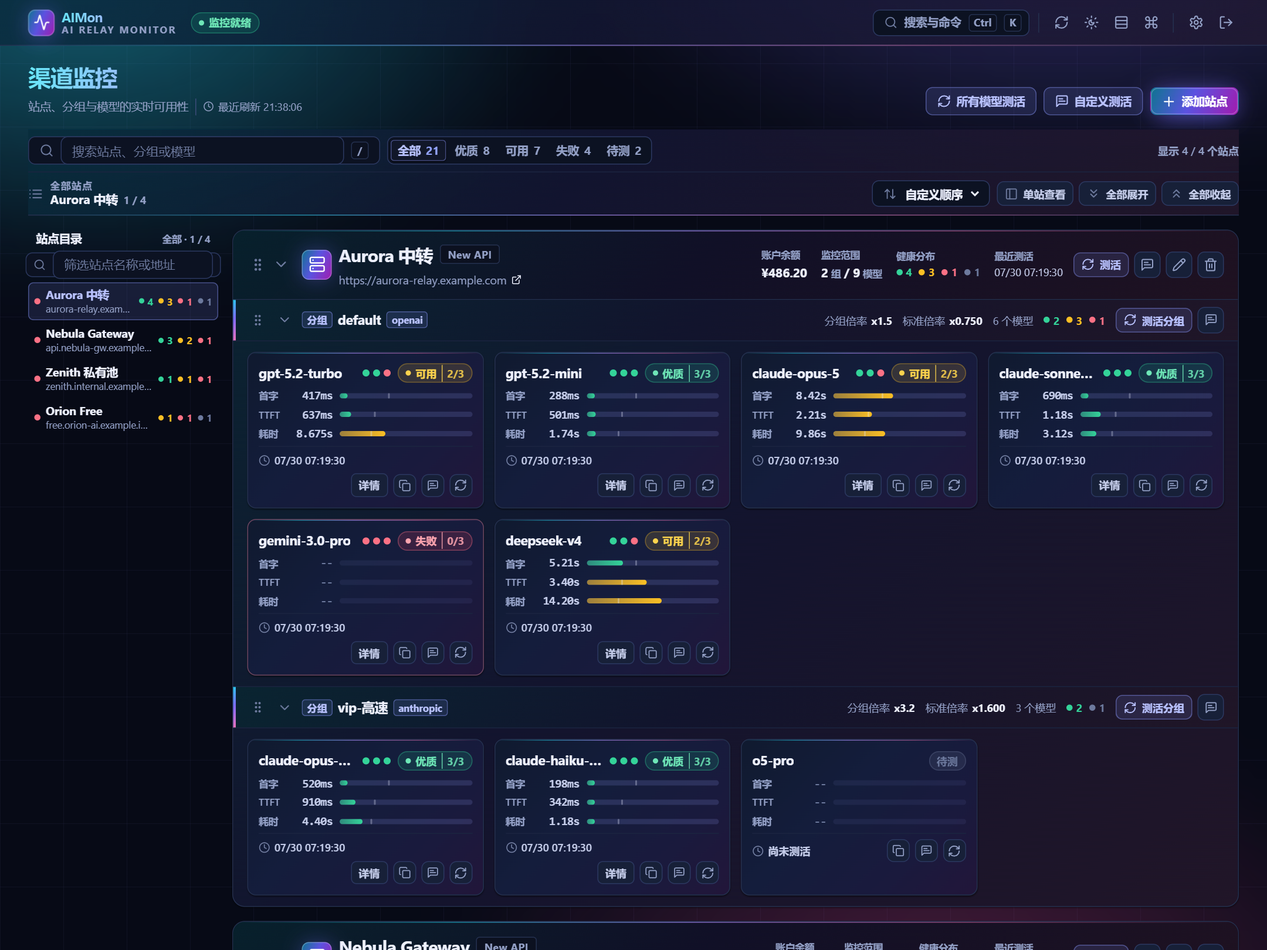
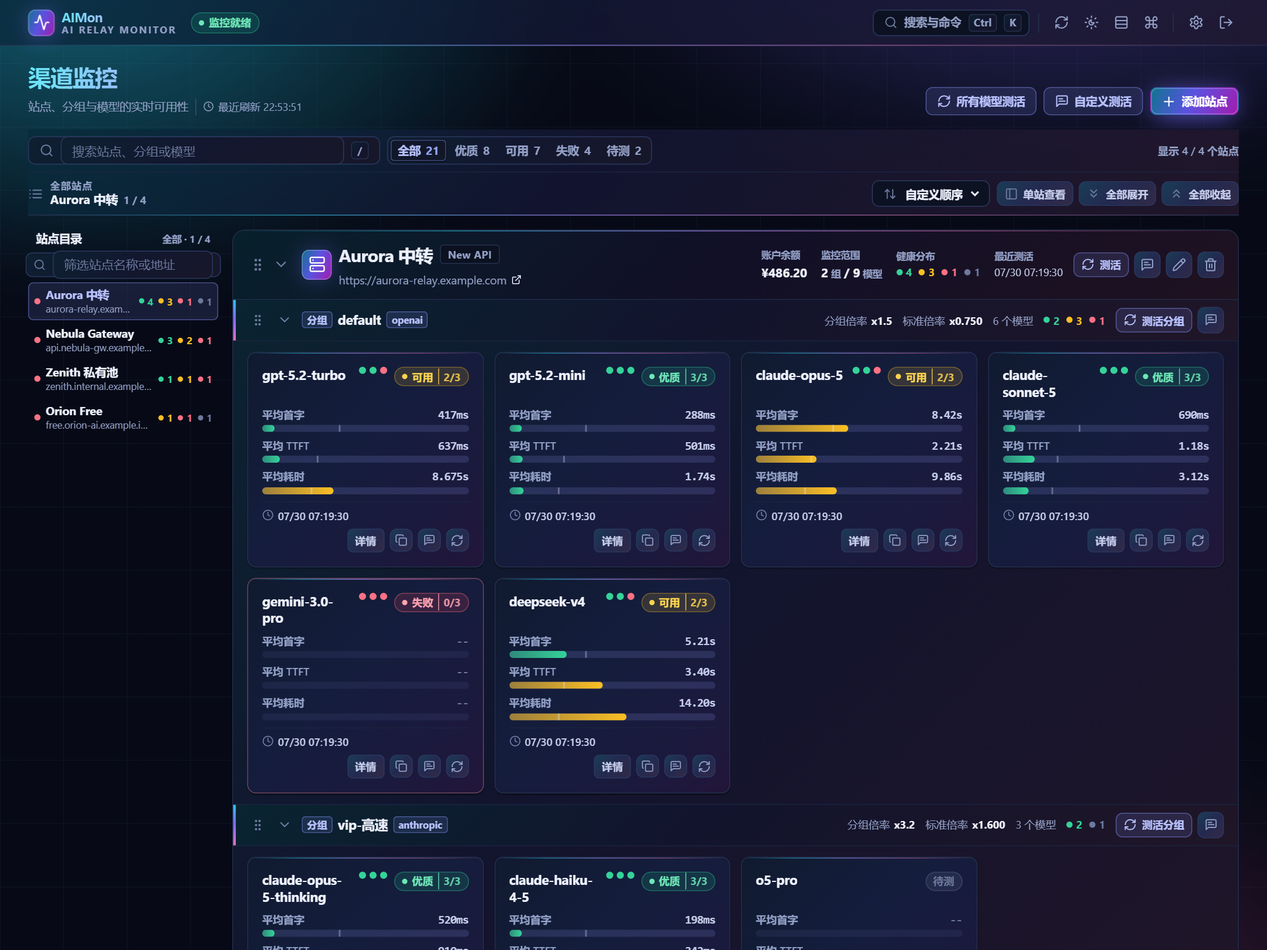
feat(ui): square the card up, and take the grey out of the controls
The model card was still a banner: three readings squeezed into a label /
value / gauge row each, so a 264px column landed near 1.5:1. Raising
--model-card-min cannot fix that — auto-fill drops a column and the cards
get *wider* — so the height is bought honestly instead. Each reading is now
two lines: label and value on one, the gauge across the full inner width
below. With a 16px inset, 8px row gaps and 8px gauges the card lands at
269x245 (1.1:1) at 1440 and 229x231 at 1280 compact, four columns in both.
Full metric labels come back now that each one owns its line, and the model
name may take two lines before truncating — at 228px `claude-opus-5` and
`claude-sonnet-5` were both `claude-o…`. The name's two lines are reserved
whether used or not, so every card in a row starts its readings level.

Ordinary controls were the last flat grey on the page. Rather than
recolouring them one by one, the neutral tier itself is washed with the one
declared spectrum: --grad-control on buttons, icon buttons and the card's
详情 link (deepening on hover), --grad-field one step fainter on inputs,
selects, the segmented tray, the search box and kbd, --grad-veil on toasts.
Brand-tinted, ghost, danger and primary variants stay flat as before.

diff --git a/src/styles/panels.css b/src/styles/panels.css
@@ -233,7 +233,7 @@
   position: relative;
   display: flex;
   flex-direction: column;
-  gap: var(--space-2);
+  gap: var(--space-3);
   padding: var(--card-pad);
   border-radius: var(--radius-lg);
   border: 1px solid var(--border);
@@ -293,15 +293,26 @@
    old card stacked six separate blocks — a header, a success band and three full-width
    latency rows with their labels above them. Name, dots and badge share the first line; the
    dots wrap rather than push the badge off the end. */
-.model-card-header { display: flex; align-items: center; gap: var(--space-2) var(--space-3); }
-.model-card-title { display: flex; align-items: center; gap: var(--space-2); min-width: 0; flex: 1; }
+.model-card-header { display: flex; align-items: flex-start; gap: var(--space-2) var(--space-3); }
+.model-card-title { display: flex; align-items: flex-start; gap: var(--space-2); min-width: 0; flex: 1; }
+/* The name may take two lines. A 228px card truncated `claude-opus-5` and `claude-sonnet-4.6`
+   to the same `claude-o…`, i.e. two cards in one row that no longer identified themselves —
+   and a monitoring tool where you cannot tell which model you are reading is broken. Two lines
+   is the cap: past that the card would grow around one long name. */
 .model-card-title h4 {
+  display: -webkit-box;
+  -webkit-line-clamp: 2;
+  -webkit-box-orient: vertical;
   font-size: var(--text-md);
   font-weight: 650;
+  line-height: 1.3;
+  /* Two lines are reserved whether or not this name needs them, so every card in a row starts
+     its readings at the same height — one wrapped name used to push its neighbour's three
+     gauges out of line with the rest of the row. */
+  min-height: 2.6em;
   letter-spacing: -0.01em;
   overflow: hidden;
-  text-overflow: ellipsis;
-  white-space: nowrap;
+  overflow-wrap: anywhere;
 }
 .model-rank {
   display: grid;
@@ -333,25 +344,28 @@
 .attempt-dots > i { width: 8px; height: 8px; border-radius: 50%; background: var(--bad); }
 .attempt-dots > i.ok { background: var(--good); }
 
-/* Three rows, one reading each: short label, value, gauge, all on one line. Side by side as
-   three columns the readings turned the card into a wide strip — a 324px card 136px tall,
-   nearly 2.4:1 — and each gauge was down to a third of the card's width, which is not enough
-   length for a bar to say anything. Stacked, the card reads as a tile (~1.5:1) and each bar
-   gets the full inner width. */
+/* Three rows, one reading each, and each reading is two lines: name and value on top, the
+   gauge across the full inner width below. Side by side as three columns the readings turned
+   the card into a wide strip — a 324px card 136px tall, nearly 2.4:1 — and squeezing the
+   gauge into a third column left it a third of the card wide, which is not enough length for
+   a bar to say anything. Giving the bar its own line is also what buys the card its height:
+   at a 264px column it lands near 1.2:1, i.e. a tile rather than a banner. */
 .model-metrics {
   display: flex;
   flex-direction: column;
-  gap: var(--space-2);
+  gap: var(--space-3);
 }
 .metric-stat {
   display: grid;
-  grid-template-columns: 30px minmax(46px, auto) minmax(36px, 1fr);
-  align-items: center;
-  gap: var(--space-3);
+  grid-template-columns: minmax(0, 1fr) auto;
+  align-items: baseline;
+  gap: 3px var(--space-3);
   min-width: 0;
 }
-.metric-stat .metric-label { font-size: var(--text-2xs); line-height: 1.2; }
-.metric-stat .metric-value { line-height: 1.2; text-align: right; }
+.metric-stat .metric-label { font-size: var(--text-xs); line-height: 1.25; }
+.metric-stat .metric-value { line-height: 1.25; text-align: right; }
+/* The gauge spans both columns: full inner width is the whole point of the second line. */
+.metric-stat .metric-gauge { grid-column: 1 / -1; }
 /* Latency numbers stay ink: the bar beside each one already carries its colour, and three
    tinted numbers beside a tinted verdict made every healthy card as loud as a broken one.
    Red is the exception — that one is worth reading before the bar. */
@@ -397,20 +411,21 @@
   padding: 3px var(--space-3);
   border-radius: var(--radius-sm);
   border: 1px solid var(--control-border);
-  background: var(--control-face);
+  background-color: var(--control-face);
+  background-image: var(--grad-control);
   color: var(--text-soft);
   font-size: var(--text-xs);
   font-weight: 600;
   white-space: nowrap;
 }
-.attempt-link:hover { border-color: var(--control-border-hover); color: var(--text); }
+.attempt-link:hover { border-color: var(--control-border-hover); background-image: var(--grad-control-hover); color: var(--text); }
 /* No red face here. A single failed request inside an otherwise available round used to
    paint this chip red, which made the quietest control on the card the loudest thing on
    it — louder than the badge that says 可用. The failure is already in the dots, the
    badge's tally and, when the round failed outright, the card's own edge. */
 /* A live round wears the brand tint, the same language every other "in progress" state
    on the page uses, so the count reads as counting up rather than as a final tally. */
-.attempt-link.is-live { border-color: var(--brand-border); background: var(--brand-soft); color: var(--accent-ink); }
+.attempt-link.is-live { border-color: var(--brand-border); background-color: var(--brand-soft); background-image: none; color: var(--accent-ink); }
 
 @media (max-width: 1100px) {
   .site-panel-header { grid-template-columns: auto minmax(0, 1fr) auto; row-gap: var(--space-3); }

diff --git a/src/styles/components.css b/src/styles/components.css
@@ -1,9 +1,10 @@
-/* Buttons. Three faces, and colour is what separates them: a cool tinted neutral for
-   ordinary actions, a brand-tinted face for 测活 (the action this tool exists for), and a
-   solid brand-blue slab for the one committing action in view. An all-grey set of controls
-   on a grey-white page had nothing but luminance to tell the tiers apart, which read as
-   unfinished rather than as restrained. Tight 8px corner, hairline border, no gloss and no
-   hover lift. */
+/* Buttons. Three faces, and colour is what separates them: a washed neutral for ordinary
+   actions, a brand-tinted face for 测活 (the action this tool exists for), and a solid brand
+   gradient slab for the one committing action in view. An all-grey set of controls on a
+   grey-white page had nothing but luminance to tell the tiers apart, which read as
+   unfinished rather than as restrained — so even the neutral tier carries a wash of the one
+   spectrum, deepening on hover. Tight 8px corner, hairline border, no gloss and no hover
+   lift. */
 .button {
   display: inline-flex;
   align-items: center;
@@ -13,7 +14,8 @@
   padding: 0 var(--space-4);
   border-radius: var(--radius-md);
   border: 1px solid var(--control-border);
-  background: var(--control-face);
+  background-color: var(--control-face);
+  background-image: var(--grad-control);
   color: var(--text-soft);
   font-size: var(--text-sm);
   font-weight: 600;
@@ -23,12 +25,13 @@
 }
 .button > svg { flex: none; color: var(--text-faint); }
 .button:hover:not(:disabled) {
-  background: var(--control-face-hover);
+  background-color: var(--control-face-hover);
+  background-image: var(--grad-control-hover);
   border-color: var(--control-border-hover);
   color: var(--text);
 }
 .button:hover:not(:disabled) > svg { color: var(--text-soft); }
-.button:active:not(:disabled) { background: var(--control-face-active); }
+.button:active:not(:disabled) { background-color: var(--control-face-active); }
 .button:disabled { opacity: 0.45; }
 
 /* The one gradient slab on the page, and the only control allowed to glow: a filled surface
@@ -103,7 +106,8 @@
 .button.compact { min-height: 28px; padding: 0 var(--space-3); font-size: var(--text-xs); }
 .button.block { width: 100%; }
 /* Icon-only buttons need a resting face too, otherwise the only thing marking them
-   as controls is a hover state the user has to find first. */
+   as controls is a hover state the user has to find first. Same washed neutral as the
+   text buttons — a strip of six grey squares in the header was the last flat grey left. */
 .icon-button {
   display: inline-flex;
   align-items: center;
@@ -113,13 +117,15 @@
   flex: none;
   border-radius: var(--radius-md);
   border: 1px solid var(--control-border);
-  background: var(--control-face);
+  background-color: var(--control-face);
+  background-image: var(--grad-control);
   color: var(--text-muted);
   transition: background var(--dur-fast) var(--ease), color var(--dur-fast) var(--ease),
     border-color var(--dur-fast) var(--ease);
 }
 .icon-button:hover:not(:disabled) {
-  background: var(--accent-face);
+  background-color: var(--accent-face);
+  background-image: none;
   border-color: var(--accent-border);
   color: var(--accent-ink);
 }
@@ -155,7 +161,8 @@
   padding: 3px;
   border-radius: var(--radius-md);
   border: 1px solid var(--control-border);
-  background: var(--field-face);
+  background-color: var(--field-face);
+  background-image: var(--grad-field);
 }
 .segmented > button {
   display: inline-flex;
@@ -303,7 +310,8 @@ textarea {
   padding: 0 var(--space-4);
   border-radius: var(--radius-md);
   border: 1px solid var(--control-border);
-  background: var(--field-face);
+  background-color: var(--field-face);
+  background-image: var(--grad-field);
   color: var(--text);
   font-size: var(--text-base);
   transition: border-color var(--dur-fast) var(--ease), box-shadow var(--dur-fast) var(--ease),
@@ -371,7 +379,8 @@ input[type='checkbox'], input[type='radio'] {
   padding: 0 var(--space-4);
   border-radius: var(--radius-md);
   border: 1px solid var(--control-border);
-  background: var(--field-face);
+  background-color: var(--field-face);
+  background-image: var(--grad-field);
   color: var(--text-muted);
   transition: border-color var(--dur-fast) var(--ease), box-shadow var(--dur-fast) var(--ease),
     background var(--dur-fast) var(--ease);
@@ -421,7 +430,8 @@ kbd {
   padding: 0 5px;
   border-radius: var(--radius-xs);
   border: 1px solid var(--border);
-  background: var(--surface-sunken);
+  background-color: var(--surface-sunken);
+  background-image: var(--grad-field);
   color: var(--text-muted);
   font-family: var(--font-sans);
   font-size: var(--text-xs);
@@ -516,7 +526,8 @@ kbd {
   border-radius: var(--radius-md);
   border: 1px solid var(--border);
   border-left: 3px solid var(--border-strong);
-  background: var(--surface-raised);
+  background-color: var(--surface-raised);
+  background-image: var(--grad-veil);
   box-shadow: var(--shadow-3);
   pointer-events: auto;
   animation: aimon-pop var(--dur) var(--ease-out);

diff --git a/src/styles/tokens.css b/src/styles/tokens.css
@@ -56,25 +56,27 @@
   /* Density-driven layout rhythm. --panel-pad is the vertical rhythm of a site's title
      band; the panel's own gutters are one step up from it (--space-5). */
   --panel-pad: var(--space-4);
-  /* The card holds four short rows; a 16px inset around them made a 227px-tall card out of
-     ~150px of content. The inset is now one step under the gap between cards. */
-  --card-pad: var(--space-4);
+  /* The card is the object this page is about, so it is the one surface that gets a
+     comfortable inset rather than the tightest one that still works. */
+  --card-pad: var(--space-5);
   --section-gap: var(--space-5);
-  /* The card is meant to read as a near-square tile: with the three readings stacked as
-     rows instead of columns it is ~160px tall, so a 248px column lands around 1.55:1. The
-     footer may wrap at the tightest widths — that is what `flex-wrap` on it is for, because
-     the one thing a monitoring card must never clip is the timestamp. */
-  --model-card-min: 248px;
+  /* The card is meant to read as a near-square tile. Each reading is two lines now — label
+     and value above a full-width gauge — which is what buys the height: at a 264px column
+     the card lands around 1.2:1 instead of the 1.5:1 it had when the gauges were squeezed
+     into a third column. The footer may wrap at the tightest widths — that is what
+     `flex-wrap` on it is for, because the one thing a monitoring card must never clip is
+     the timestamp. */
+  --model-card-min: 264px;
   --row-height: 34px;
-  --metric-bar: 6px;
+  --metric-bar: 8px;
 }
 [data-density='compact'] {
   --panel-pad: var(--space-3);
-  --card-pad: var(--space-3);
+  --card-pad: var(--space-4);
   --section-gap: var(--space-4);
-  --model-card-min: 220px;
+  --model-card-min: 228px;
   --row-height: 30px;
-  --metric-bar: 5px;
+  --metric-bar: 7px;
   --text-base: 13px;
   --text-md: 14px;
   --text-lg: 16px;
@@ -209,6 +211,15 @@
   --grad-line: linear-gradient(90deg, transparent, rgba(6, 182, 212, 0.5), rgba(99, 102, 241, 0.6) 45%, rgba(217, 70, 239, 0.45), transparent);
   --grad-veil: linear-gradient(140deg, rgba(6, 182, 212, 0.09), rgba(99, 102, 241, 0.05) 45%, rgba(217, 70, 239, 0.07));
   --grad-wash: linear-gradient(135deg, rgba(6, 182, 212, 0.16), rgba(99, 102, 241, 0.08) 46%, rgba(217, 70, 239, 0.14));
+  /* Ordinary controls are not grey. They keep a neutral face and a hairline — no gloss, no
+     hover lift — but the face itself is washed with the same spectrum, so a row of buttons
+     reads as part of this console instead of as stock chrome sitting on top of it. Hover
+     deepens the same three stops rather than switching to another colour. */
+  --grad-control: linear-gradient(135deg, rgba(6, 182, 212, 0.2), rgba(99, 102, 241, 0.1) 48%, rgba(217, 70, 239, 0.16));
+  --grad-control-hover: linear-gradient(135deg, rgba(6, 182, 212, 0.34), rgba(99, 102, 241, 0.2) 48%, rgba(217, 70, 239, 0.28));
+  /* Fields keep the faintest wash of the three: a hole you type into may pick up the light,
+     but it must stay a step below the faces you press. */
+  --grad-field: linear-gradient(135deg, rgba(6, 182, 212, 0.08), rgba(99, 102, 241, 0.04) 48%, rgba(217, 70, 239, 0.07));
   --grad-card: linear-gradient(135deg, #ffffff, #e8f1ff 38%, #eae7ff 72%, #fce4f6);
   --grad-card-hover: linear-gradient(135deg, #ffffff, #dceaff 36%, #e2ddff 70%, #fbd9f2);
   --glow-brand: 0 0 20px -6px rgba(99, 102, 241, 0.45);
@@ -310,6 +321,9 @@
   --grad-line: linear-gradient(90deg, transparent, rgba(34, 211, 238, 0.55), rgba(167, 139, 250, 0.7) 45%, rgba(244, 114, 182, 0.5), transparent);
   --grad-veil: linear-gradient(140deg, rgba(34, 211, 238, 0.1), rgba(124, 108, 255, 0.07) 45%, rgba(244, 114, 182, 0.08));
   --grad-wash: linear-gradient(135deg, rgba(34, 211, 238, 0.13), rgba(124, 108, 255, 0.1) 46%, rgba(244, 114, 182, 0.11));
+  --grad-control: linear-gradient(135deg, rgba(34, 211, 238, 0.16), rgba(124, 108, 255, 0.12) 48%, rgba(244, 114, 182, 0.12));
+  --grad-control-hover: linear-gradient(135deg, rgba(34, 211, 238, 0.28), rgba(124, 108, 255, 0.22) 48%, rgba(244, 114, 182, 0.2));
+  --grad-field: linear-gradient(135deg, rgba(34, 211, 238, 0.07), rgba(124, 108, 255, 0.06) 48%, rgba(244, 114, 182, 0.05));
   /* The dark card is a tinted slab, not a wash over one: four steps along the spectrum, all
      dark enough to carry --text at 14px. */
   --grad-card: linear-gradient(135deg, #101a2f, #141d3c 40%, #1a1a3d 74%, #22163a);

diff --git a/src/components/ModelGrid.tsx b/src/components/ModelGrid.tsx
@@ -49,9 +49,9 @@ export function ModelGrid({ group, sortMode, onHealth, onCustomHealth, activeTar
             <StatusBadge model={model} activeTarget={activeTarget} score />
           </header>
           <div className="model-metrics">
-            <MetricStat metric="ttfb" label="首字" hint="平均首字（TTFB，首个响应字节）" value={model.avgTtfbMs} />
-            <MetricStat metric="ttft" label="TTFT" hint="平均 TTFT（首个非空文本 token）" value={model.avgTtftMs} />
-            <MetricStat metric="total" label="耗时" hint="平均耗时（读取完成）" value={model.avgTotalMs} />
+            <MetricStat metric="ttfb" label="平均首字" hint="平均首字（TTFB，首个响应字节）" value={model.avgTtfbMs} />
+            <MetricStat metric="ttft" label="平均 TTFT" hint="平均 TTFT（首个非空文本 token）" value={model.avgTtftMs} />
+            <MetricStat metric="total" label="平均耗时" hint="平均耗时（读取完成）" value={model.avgTotalMs} />
           </div>
           <footer className="model-card-footer">
             <span className="model-checked" title={`最近测活 ${fmtTime(model.checkedAt)}`}>

diff --git a/src/components/primitives.tsx b/src/components/primitives.tsx
@@ -54,7 +54,7 @@ export function HealthBreakdown({ models, activeModelIds = noActiveModelIds }: {
   </div>
 }
 
-/** One reading on the card: short label, value, then the gauge beside them on the same line. */
+/** One reading on the card: name and value on one line, the gauge across the width below. */
 export function MetricStat({ metric, label, hint, value }: {
   metric: LatencyMetric
   label: string

diff --git a/README.md b/README.md
@@ -58,7 +58,7 @@ AIMon 使用“**站点 → 分组 → 模型**”三级结构，一个站点就
 
 - **站点层**是一块带框的面板：面板顶部一条比页面更深的标题带，集中展示余额、监控范围、健康分布与最后测活时间，站点名是全页除应用标题以外最大的字（20px）。
 - **分组层**是面板里一条通栏的下沉横条：上下各一条发丝线，左缘一道品牌色的标签边，行首一枚写着“分组”的标签，组名 15px 加粗，右侧是远端倍率、标准倍率、模型数量和健康分布。横条是通栏而不是内缩的——内缩一圈就会变成第三种卡片。
-- **模型层**是全页唯一保留的卡片，也是这条阶梯里最浅的一层，而且是全页唯一拥有渐变底面的物件：卡内只有三段——第一段是模型名、逐次结果圆点和带成功分数（`2/3`）的状态徽章，第二段把平均首字、平均 TTFT 和平均耗时排成三行，每行自左向右是短标签、数值和指标条，因此不必读完数字就能判断模型快慢，第三段是最近测活时间与四个操作。卡片边框只在整轮失败和测活进行中变色。
+- **模型层**是全页唯一保留的卡片，也是这条阶梯里最浅的一层，而且是全页唯一拥有渐变底面的物件：卡内只有三段——第一段是模型名、逐次结果圆点和带成功分数（`2/3`）的状态徽章，第二段把平均首字、平均 TTFT 和平均耗时排成三行，每行自己又占两行：标签与数值一左一右，指标条通栏压在它们下面，因此不必读完数字就能判断模型快慢，第三段是最近测活时间与四个操作。卡片边框只在整轮失败和测活进行中变色。
 
 三级结构的每一层都有一层自己的底色，而且这条阶梯只朝一个方向走：**底色越深，层级越高**——站点标题带最深，分组横条次之，面板地板就是画布色，模型卡片最浅。深色主题把染色方向倒过来（标题带最暗），规则不变。上一版走的是另一条路：除模型卡片以外的容器全部去掉边框和底色，只靠标题字号和发丝线交代层级，结果是分组标题和站点标题成了同一种裸行，不读文字就分不清自己在看站点还是在看分组。补救的办法不是把四层框再套回去（那正是当初拉平的原因），而是给每层一层底色，再各配一个独有的记号：站点有框、有标题带、有最大的字；分组有下沉底、有上下发丝线、有品牌色标签边和“分组”二字；模型有自己的边框、接触阴影、最浅的底色和一张渐变面。
 
@@ -68,23 +68,23 @@ AIMon 使用“**站点 → 分组 → 模型**”三级结构，一个站点就
 
 状态筛选会直接显示各等级的模型数量；标题栏的状态胶囊汇总网络、任务进度和错误，最近刷新时间显示在页面标题下方。测活进行中会出现独立任务条，显示当前目标、已完成数量和排队数量。搜索栏上方原先还有一条八格数据概览，已经移除：那些数字在站点行、分组行和状态筛选里都能读到，却先占掉一屏高度，并且又是一张需要跨过的卡片。
 
-视觉上采用“克制圆角 + 中性控件 + 短接触阴影”的语言。圆角逐层收敛但整体偏紧：浮层与站点面板 14px，模型卡片 10px，按钮与输入框 8px，标签 4px，胶囊形只留给真正是胶囊的东西——状态徽章、指标条和进度条；仪表盘本身密集且方正，过大的曲率会吃掉每个面板的边角，也会让小控件看起来像药丸。除了下文那份点名的清单以外，控件一律使用纯色底面加一条发丝描边，不带竖向高光，也不在悬停时上浮：整排渐变按钮会像一排压花塑料件，让控件看起来可按的是它与身后底色的对比，而不是自身的高光。渐变分两种用法，互不越界：**控件**上的实心渐变是稀缺资源，只发给身份物件、全页唯一的主按钮和“正在进行”的东西——发得越少，它每次出现时说的话越重；**大面积的底**（吸顶工具条、面板地板、标题带、分组横条、弹窗，以及模型卡片自己的面）则一律带一层同一支光谱的染色，因为一块几百像素宽的纯色面在染色的画布上只会读成一张发白的板。
+视觉上采用“克制圆角 + 中性控件 + 短接触阴影”的语言。圆角逐层收敛但整体偏紧：浮层与站点面板 14px，模型卡片 10px，按钮与输入框 8px，标签 4px，胶囊形只留给真正是胶囊的东西——状态徽章、指标条和进度条；仪表盘本身密集且方正，过大的曲率会吃掉每个面板的边角，也会让小控件看起来像药丸。除了下文那份点名的清单以外，控件一律是一张中性底面加一条发丝描边，不带竖向高光，也不在悬停时上浮：整排渐变按钮会像一排压花塑料件，让控件看起来可按的是它与身后底色的对比，而不是自身的高光。渐变分两种用法，互不越界：**控件**上的实心渐变是稀缺资源，只发给身份物件、全页唯一的主按钮和“正在进行”的东西——发得越少，它每次出现时说的话越重；**大面积的底**（吸顶工具条、面板地板、标题带、分组横条、弹窗，以及模型卡片自己的面）则一律带一层同一支光谱的染色，因为一块几百像素宽的纯色面在染色的画布上只会读成一张发白的板。
 
 有框的东西只有两类：站点面板和模型卡片。吸顶工具条和站点目录仍然只用发丝线和留白交代边界——它们是导航，不是内容。站点面板的地板直接用画布色，所以面板是靠一圈边框而不是靠第二层灰底被认出来的，压在上面的卡片也保持原来的对比度。画布不再是一块纯色板，而是一层**会呼吸的底**：一张 72px 的网格钉死在视口上（`background-attachment: fixed`），网格线只有百分之几的不透明度，滚动时不跟着页面走，因此它读起来是仪表盘背后的坐标纸而不是一层贴在内容上的花纹；网格之上是三团巨大的高斯模糊光斑（“极光”），固定在视口上、`z-index: -1`，以 34s / 46s 两条错开的循环缓慢漂移。极光只动 `transform`，因此每团光斑各占一个合成层，页面在它呼吸时不重排也不重绘；`prefers-reduced-motion` 会把它冻在第一帧。这层底不会破坏层级阶梯：站点面板、模型卡片和标题带用的都是不透明的底色令牌，极光只在面板之间的画布上透出来。早先那层顶部 420px 的渐变正相反——它顺着页面变浅，在页面上横切出一条明显的接缝，而面板地板正是贴着画布读的。吸顶工具条用的是**画布色**的毛玻璃而不是面板色：它是一条带子，不是一张卡片，浅色毛玻璃压在画布上时看起来像一张横在标题和第一个站点之间的宽卡片，正是它本不该有的割裂感；标题栏则单独用面板色毛玻璃，与它下方的带子区分开。工具条身上再压一层可读强度的渐变薄雾（`--grad-wash`）而不是只有几个百分点的那一层——它是首屏最宽的一块面，几个百分点在它身上只会读成一张发白的磨砂板。两条吸顶带子的下边缘都是一条渐变发丝线，而不是一条灰线。
 
-按钮有三种底面，靠**颜色**而不是明度区分层级：全屏唯一的渐变实心主按钮（当前唯一的提交动作，也是全页唯一允许发光的控件），各级“测活”入口共用的品牌浅底（这个工具存在的目的就是测活，它值得和主按钮同一个色系，但不必喊得一样响），以及其余控件共用的中性底面。之前整套控件全部退成灰阶，一屏灰白页面上只剩明度可以区分层级，读起来不像克制，而像没做完。输入型控件（搜索框、下拉、分段控件、文本框）使用比按钮更浅的下沉底面——输入框是一个可以往里打字的洞，按钮是一张可以按下去的面。幽灵按钮（取消 / 返回）不填充；处于开启状态的开关、分段控件里被选中的段、命令面板的键盘光标、被勾选的模型和被选中的常用问题，全部使用同一枚品牌浅底，因此“这一个是选中的”在整个应用里只有一种写法。
+按钮有三种底面，靠**颜色**而不是明度区分层级：全屏唯一的渐变实心主按钮（当前唯一的提交动作，也是全页唯一允许发光的控件），各级“测活”入口共用的品牌浅底（这个工具存在的目的就是测活，它值得和主按钮同一个色系，但不必喊得一样响），以及其余控件共用的中性底面。之前整套控件全部退成灰阶，一屏灰白页面上只剩明度可以区分层级，读起来不像克制，而像没做完。中性这一档也不是灰的：它保持中性的底色和发丝边，但底面本身压着同一支光谱的一层薄染（`--grad-control`，悬停时加深到 `--grad-control-hover`），因此普通按钮、图标按钮和卡片上的“详情”入口读起来是这台控制台的一部分，而不是一排贴在页面上的通用灰件——标题栏那排图标按钮曾是全页最后剩下的一片纯灰方块。输入型控件（搜索框、下拉、分段控件、文本框、`kbd`）使用比按钮更浅的下沉底面，薄染也用最淡的一档（`--grad-field`）——输入框是一个可以往里打字的洞，按钮是一张可以按下去的面，洞可以接到这层光，但必须比面低一档。幽灵按钮（取消 / 返回）不填充；处于开启状态的开关、分段控件里被选中的段、命令面板的键盘光标、被勾选的模型和被选中的常用问题，全部使用同一枚品牌浅底，因此“这一个是选中的”在整个应用里只有一种写法。品牌浅底、幽灵、危险和主按钮这四种变体都不带薄染：`background` 简写会清掉 `background-image`，所以需要保持纯色的那几档要么用简写，要么显式写 `background-image: none`。
 
-配色是一套**以深色为主的冷调控制台**：深色主题的画布是接近午夜的蓝黑（`#070a16`），面板与卡片沿着同一支蓝往上抬，墨色是偏蓝的白；浅色主题不是纯白办公纸，而是一条**带蓝的冷灰阶梯**：画布 `#e3e8fa`，站点标题带 `#ccd5f0`，分组横条 `#d9dff5`，模型卡片 `#f7f9ff`，纯白只留给必须浮在染色页面之上的浮层。上一版浅色是 `#eceffa` 的画布配纯白卡片：四层声明出来的层级全部落在八个明度点之内，读起来不是四层，而是一整片白蒙蒙的雾，所以这条阶梯被拉开到 `#ccd5f0 → #f7f9ff`，每一档都带彩度，并且没有一块大面积底色是纯白。品牌色是靛蓝（浅色 `#4f46e5`，深色主题换成更亮的一档 `#93a4ff` 并配浅蓝墨色）。上一版试过暖调的“纸与墨”——沙色画布、米白卡片、酒红品牌色，那套配色本身没问题，但它给一台 AI 中转监控台穿了一身古典衣服：这一页要说的是延迟、并发和吞吐，不是纸墨。状态色取三档能当小字读的高饱和：翡翠绿、琥珀黄、玫瑰红，只有指标条上的黄档例外，改用更鲜艳的一级——黄色暗到能读小字时天生是棕的，当成一条条填充的横条时看起来像旁边绿条边上的一摊泥，而一条横条不必承担字形。状态色仍然只服务两件事：健康度（徽章、逐次圆点、成功分数和指标条用绿 / 黄 / 红 / 灰）和“链接 / 聚焦 / 正在进行”（测活进行中的卡片、任务条、运行状态胶囊和进度条转品牌色）。平台标签这类“事实”保持中性，避免和旁边的健康色抢读。阴影短、紧、偏冷，卡片读起来像一块压在画布上的面板；只有主按钮和身份色块额外带一圈品牌色的外发光。（浅色 `#4f46e5`，深色主题换成更亮的一档 `#93a4ff` 并配浅蓝墨色）。上一版试过暖调的“纸与墨”——沙色画布、米白卡片、酒红品牌色，那套配色本身没问题，但它给一台 AI 中转监控台穿了一身古典衣服：这一页要说的是延迟、并发和吞吐，不是纸墨。状态色取三档能当小字读的高饱和：翡翠绿、琥珀黄、玫瑰红，只有指标条上的黄档例外，改用更鲜艳的一级——黄色暗到能读小字时天生是棕的，当成一条条填充的横条时看起来像旁边绿条边上的一摊泥，而一条横条不必承担字形。状态色仍然只服务两件事：健康度（徽章、逐次圆点、成功分数和指标条用绿 / 黄 / 红 / 灰）和“链接 / 聚焦 / 正在进行”（测活进行中的卡片、任务条、运行状态胶囊和进度条转品牌色）。平台标签这类“事实”保持中性，避免和旁边的健康色抢读。阴影短、紧、偏冷，卡片读起来像一块压在画布上的面板；只有主按钮和身份色块额外带一圈品牌色的外发光。
+配色是一套**以深色为主的冷调控制台**：深色主题的画布是接近午夜的蓝黑（`#070a16`），面板与卡片沿着同一支蓝往上抬，墨色是偏蓝的白；浅色主题不是纯白办公纸，而是一条**带蓝的冷灰阶梯**：画布 `#e3e8fa`，站点标题带 `#ccd5f0`，分组横条 `#d9dff5`，模型卡片 `#f7f9ff`，纯白只留给必须浮在染色页面之上的浮层。上一版浅色是 `#eceffa` 的画布配纯白卡片：四层声明出来的层级全部落在八个明度点之内，读起来不是四层，而是一整片白蒙蒙的雾，所以这条阶梯被拉开到 `#ccd5f0 → #f7f9ff`，每一档都带彩度，并且没有一块大面积底色是纯白。品牌色是靛蓝（浅色 `#4f46e5`，深色主题换成更亮的一档 `#93a4ff` 并配浅蓝墨色）。上一版试过暖调的“纸与墨”——沙色画布、米白卡片、酒红品牌色，那套配色本身没问题，但它给一台 AI 中转监控台穿了一身古典衣服：这一页要说的是延迟、并发和吞吐，不是纸墨。状态色取三档能当小字读的高饱和：翡翠绿、琥珀黄、玫瑰红，只有指标条上的黄档例外，改用更鲜艳的一级——黄色暗到能读小字时天生是棕的，当成一条条填充的横条时看起来像旁边绿条边上的一摊泥，而一条横条不必承担字形。状态色仍然只服务两件事：健康度（徽章、逐次圆点、成功分数和指标条用绿 / 黄 / 红 / 灰）和“链接 / 聚焦 / 正在进行”（测活进行中的卡片、任务条、运行状态胶囊和进度条转品牌色）。平台标签这类“事实”保持中性，避免和旁边的健康色抢读。阴影短、紧、偏冷，卡片读起来像一块压在画布上的面板；只有主按钮和身份色块额外带一圈品牌色的外发光。
 
-“炫彩”只允许有**一支光谱**，写在令牌里，所有渐变都从它取色：`--grad-brand`（青 → 靛 → 品红，用在承载文字的实心面上，因此三个停靠点都刻意压深，白字才压得住）、`--grad-brand-hover`、`--grad-accent`（纯装饰用的霓虹一档）、`--grad-text`（`background-clip: text`）、`--grad-line`（发丝线）、`--grad-veil`（只有几个百分点的薄雾）、`--grad-wash`（同一支雾的可读强度，给那些否则就是一张平板的大面积底：吸顶工具条、站点面板地板、站点标题带、分组横条和弹窗）、`--grad-card`（模型卡片自己的面，见下）。发出去的地方是一份点名的清单，不是“凡是渐变都能用”：应用标题与页面标题（`渠道监控`）用光谱做字色；三枚身份色块——应用图标、站点图标、登录页锁形图标——用光谱做底并带外发光；全页唯一的主按钮、层级标签和弹窗步骤指示器同样；标题栏、吸顶工具条、站点面板、弹窗、命令面板和登录卡的顶边各是一条渐变发丝线；分组横条的左缘是一道品红到青的竖边。凡是“正在进行”的东西，它的那条边会**扫动**（`aimon-sweep`，背景位置从 0% 走到 200%）：任务条顶边、进度条本身、正在测活的模型卡顶边、搜索框的待检索下划线。反过来，排队中的卡片只把边框染上品牌色而不扫动——排队不是运动。半透明的浅底上不放渐变描边：深色主题的 `--brand-soft` 是半透明的，`border-box` 渐变会从整块底色里透出来，而不是留在那 1px 的边上；这也是“测活”按钮和运行状态胶囊保持纯色浅底的原因。，不是“凡是渐变都能用”：应用标题与页面标题（`渠道监控`）用光谱做字色；三枚身份色块——应用图标、站点图标、登录页锁形图标——用光谱做底并带外发光；全页唯一的主按钮、层级标签和弹窗步骤指示器同样；标题栏、吸顶工具条、站点面板、弹窗、命令面板和登录卡的顶边各是一条渐变发丝线；分组横条的左缘是一道品红到青的竖边。凡是“正在进行”的东西，它的那条边会**扫动**（`aimon-sweep`，背景位置从 0% 走到 200%）：任务条顶边、进度条本身、正在测活的模型卡顶边、搜索框的待检索下划线。反过来，排队中的卡片只把边框染上品牌色而不扫动——排队不是运动。半透明的浅底上不放渐变描边：深色主题的 `--brand-soft` 是半透明的，`border-box` 渐变会从整块底色里透出来，而不是留在那 1px 的边上；这也是“测活”按钮和运行状态胶囊保持纯色浅底的原因。
+“炫彩”只允许有**一支光谱**，写在令牌里，所有渐变都从它取色：`--grad-brand`（青 → 靛 → 品红，用在承载文字的实心面上，因此三个停靠点都刻意压深，白字才压得住）、`--grad-brand-hover`、`--grad-accent`（纯装饰用的霓虹一档）、`--grad-text`（`background-clip: text`）、`--grad-line`（发丝线）、`--grad-veil`（只有几个百分点的薄雾）、`--grad-wash`（同一支雾的可读强度，给那些否则就是一张平板的大面积底：吸顶工具条、站点面板地板、站点标题带、分组横条和弹窗）、`--grad-control` / `--grad-control-hover`（中性控件底面的薄染，见上）、`--grad-field`（输入型控件那一档最淡的薄染）、`--grad-card`（模型卡片自己的面，见下）。发出去的地方是一份点名的清单，不是“凡是渐变都能用”：应用标题与页面标题（`渠道监控`）用光谱做字色；三枚身份色块——应用图标、站点图标、登录页锁形图标——用光谱做底并带外发光；全页唯一的主按钮、层级标签和弹窗步骤指示器同样；标题栏、吸顶工具条、站点面板、弹窗、命令面板和登录卡的顶边各是一条渐变发丝线；分组横条的左缘是一道品红到青的竖边。凡是“正在进行”的东西，它的那条边会**扫动**（`aimon-sweep`，背景位置从 0% 走到 200%）：任务条顶边、进度条本身、正在测活的模型卡顶边、搜索框的待检索下划线。反过来，排队中的卡片只把边框染上品牌色而不扫动——排队不是运动。半透明的浅底上不放渐变描边：深色主题的 `--brand-soft` 是半透明的，`border-box` 渐变会从整块底色里透出来，而不是留在那 1px 的边上；这也是“测活”按钮和运行状态胶囊保持纯色浅底的原因。
 
-模型卡片是全页唯一拥有**渐变底面**的物件：`--grad-card` 是沿着这支光谱斜着走的四档——左上角是白（深色主题是近黑），往右下依次染上青、靛、品红，悬停时同一条对角线再深一档。别处的渐变都是一层压在纯色上的薄雾，只有这里是底色本身，因为卡片是这一页真正被读、被比较、被操作的那个东西；一张纯白卡片压在染色的页面上，正是“白蒙蒙”里最响的那一块。除了这张面以外，卡片上的颜色只留在真正表示状态的地方。它原先同时有一条顶边色带、一圈按状态着色的边框、一条着色的成功率带、三个着色的数值和三条着色的指标条：四种颜色的卡框在一屏里同时出现时，健康的多数被画得和唯一那个不再回话的模型一样响，而“一次失败”还会把最安静的“详情”按钮染成整张卡上最红的东西。现在色带去掉，边框只在整轮失败（红）和测活进行中（品牌色）时变色，三个平均值保持墨色、只有落进红档才转红，颜色留给徽章、逐次圆点和指标条本身——一个数值旁边已经有一条替它着色的横条，不必两个都喊。“详情”弹窗里的每次请求仍保留顶边色带：那里一次只读一轮，色带是这一次请求的标签，不是一排卡片的底噪。、一圈按状态着色的边框、一条着色的成功率带、三个着色的数值和三条着色的指标条：四种颜色的卡框在一屏里同时出现时，健康的多数被画得和唯一那个不再回话的模型一样响，而“一次失败”还会把最安静的“详情”按钮染成整张卡上最红的东西。现在色带去掉，边框只在整轮失败（红）和测活进行中（品牌色）时变色，三个平均值保持墨色、只有落进红档才转红，颜色留给徽章、逐次圆点和指标条本身——一个数值旁边已经有一条替它着色的横条，不必两个都喊。“详情”弹窗里的每次请求仍保留顶边色带：那里一次只读一轮，色带是这一次请求的标签，不是一排卡片的底噪。
+模型卡片是全页唯一拥有**渐变底面**的物件：`--grad-card` 是沿着这支光谱斜着走的四档——左上角是白（深色主题是近黑），往右下依次染上青、靛、品红，悬停时同一条对角线再深一档。别处的渐变都是一层压在纯色上的薄雾，只有这里是底色本身，因为卡片是这一页真正被读、被比较、被操作的那个东西；一张纯白卡片压在染色的页面上，正是“白蒙蒙”里最响的那一块。除了这张面以外，卡片上的颜色只留在真正表示状态的地方。它原先同时有一条顶边色带、一圈按状态着色的边框、一条着色的成功率带、三个着色的数值和三条着色的指标条：四种颜色的卡框在一屏里同时出现时，健康的多数被画得和唯一那个不再回话的模型一样响，而“一次失败”还会把最安静的“详情”按钮染成整张卡上最红的东西。现在色带去掉，边框只在整轮失败（红）和测活进行中（品牌色）时变色，三个平均值保持墨色、只有落进红档才转红，颜色留给徽章、逐次圆点和指标条本身——一个数值旁边已经有一条替它着色的横条，不必两个都喊。“详情”弹窗里的每次请求仍保留顶边色带：那里一次只读一轮，色带是这一次请求的标签，不是一排卡片的底噪。
 
 字号与尺寸整体收了一档：标题栏 52px，站点名 20px，分组名 15px，模型名与正文 14px，按钮 32px 高、图标按钮 30px（模型卡片底部一行的图标按钮 26px），紧凑密度再各降一档。站点名和分组名之间隔两档，是为了让层级在扫读时就能分出来。
 
-模型卡片的最小宽度是 248px（紧凑密度 220px），目标是让它读起来接近方形：1440px 舒适密度下一张卡是 269×178（约 1.51:1），1280px 紧凑密度下是 229×169。上一版是 324px 宽、136px 高——将近 2.4:1，一整排横条而不是一排瓦片。卡片底部一行放不下时会**换行**而不是压缩：那一行同时有“最近测活”时间、“详情”入口和三个图标按钮，卡片一旦太窄，被截断的一定是时间（`07-30 14:2…`），而这恰好是监控工具最不该省的那个事实。
+模型卡片的最小宽度是 264px（紧凑密度 228px），目标是让它读起来接近方形：1440px 舒适密度下一张卡是 269×245（约 1.1:1），1280px 紧凑密度下是 229×231（几乎正方），1920px 下是 299×205。上一版是 324px 宽、136px 高——将近 2.4:1，一整排横条而不是一排瓦片；上一轮压到 269×178（约 1.5:1）还是偏长。**方是靠高度换来的，不是靠宽度**：`.model-grid` 用的是 `repeat(auto-fill, minmax(var(--model-card-min), 1fr))`，把最小宽度调大只会减少列数、把每张卡撑得更宽，也就更长；所以这一轮是把内边距抬到 16px、行距抬到 8px、指标条抬到 8px，并让每个读数各占两行，用诚实的高度把卡片顶成一块瓦片。紧凑密度的最小宽度必须跟着往下走：同一个 236px 的值在 1280 紧凑下会掉成三列（309×192，比之前更长），228px 才能保住四列。卡片底部一行放不下时会**换行**而不是压缩：那一行同时有“最近测活”时间、“详情”入口和三个图标按钮，卡片一旦太窄，被截断的一定是时间（`07-30 14:2…`），而这恰好是监控工具最不该省的那个事实。
 
-卡内节奏与卡间距是**两套刻度**：卡片之间 12px，卡片自己的行距 6px，内边距 12px。两者都是 8px 时，卡片看起来没有“里面”，一排卡片读起来像一整块条纹。卡片从六行压到三段：成功分数并进状态徽章（`可用 2/3`），三条通栏的延迟行压成三行紧凑的小统计——每行只有“短标签 + 数值 + 指标条”一行高，作为独立横带时成功率把网格自己的“标签 + 数值”结构又重复了一遍，而三条通栏的行为了三个数字吃掉 99px，标签（“平均首字”）还比它引出的数值更长，长名字现在只留在悬停提示里。三个读数曾经并排成一行三列，那样卡片被拉成 2.4:1 的横条，每条指标条也只剩三分之一张卡的长度——一条那么短的横条说不出话；竖着排回来，卡片才是一块瓦片，每条横条也拿到整个卡内宽度。“详情”按钮上原先写着“N 次失败 / N 次成功”，这个数字已经在徽章里，按钮只需要是一道门。逐次结果圆点可以换行（一轮最多十次，一整行就是 116px，等于三分之一张卡），因此圆点再多也挤不掉徽章。
+卡内节奏与卡间距是**两套刻度**：卡片之间 12px，卡片自己的行距 8px，内边距 16px（紧凑密度 12px）。两者都是 8px 时，卡片看起来没有“里面”，一排卡片读起来像一整块条纹；卡片是这一页真正被读的物件，所以它也是全页唯一拿到宽松内边距而不是“刚好能用”的那一档的面。卡片从六行压到三段：成功分数并进状态徽章（`可用 2/3`），三条通栏的延迟行压成三行小统计——每行两小行：标签在左、数值在右，指标条通栏压在下面。作为独立横带时成功率把网格自己的“标签 + 数值”结构又重复了一遍，而三条通栏的行为了三个数字吃掉 99px。三个读数也曾经并排成一行三列，那样卡片被拉成 2.4:1 的横条，每条指标条只剩三分之一张卡的长度——一条那么短的横条说不出话；竖着排回来，卡片才是一块瓦片。指标条拿到整个卡内宽度之后，标签也不必再缩成“首字 / TTFT / 耗时”了：它自己占一行，写全名（平均首字 / 平均 TTFT / 平均耗时）也不会挤到数值。“详情”按钮上原先写着“N 次失败 / N 次成功”，这个数字已经在徽章里，按钮只需要是一道门。模型名最多占两行然后才截断（`-webkit-line-clamp: 2`）：228px 的紧凑卡片会把 `claude-opus-5` 和 `claude-sonnet-5` 一起截成 `claude-o…`，同一排里两张卡都不再说明自己是谁，而一台连“我在看哪个模型”都读不出来的监控台是坏的；卡片头部因此改为顶端对齐，徽章跟着名字的第一行走；两行高度无论名字用不用得到都会预留，否则一个换行的名字会把它邻居的三条指标条挤得和整排错开。逐次结果圆点可以换行（一轮最多十次，一整行就是 116px，等于三分之一张卡），因此圆点再多也挤不掉徽章。
 
 主题按钮是**双态开关**，不是三态轮换：它总是从当前实际生效的主题翻到另一边，因此每次点击屏幕一定会变化——原来的“跟随系统 → 浅色 → 深色”轮换在系统本身就是浅色时，第一次点击什么都不会发生，看起来就是按钮坏了。“主题跟随系统”移到命令面板里（当前不是跟随系统时才出现）。主题在首帧之前由 `index.html` 里的内联脚本写入，因此深色模式刷新不会闪一下白屏，浏览器地址栏配色也跟着切换。
 
@@ -344,7 +344,7 @@ TTFT 只适用于能够观察到文本流的请求。非流式请求、Embedding
 | 平均 TTFT | `< 2s` | `2s – < 6s` | `≥ 6s` |
 | 平均耗时 | `< 6s` | `6s – < 20s` | `≥ 20s` |
 
-同一色标同时作用于模型卡片上的指标条，以及“详情”弹窗中每一次请求的首字、TTFT 和耗时。卡片上的三个平均值本身保持墨色，只有落进红档才转红：旁边的指标条已经替它着了色。卡片上的标签是短名（首字 / TTFT / 耗时），完整名称在悬停提示里——一个读数只占一行高，标签不该比它引出的数值更长。
+同一色标同时作用于模型卡片上的指标条，以及“详情”弹窗中每一次请求的首字、TTFT 和耗时。卡片上的三个平均值本身保持墨色，只有落进红档才转红：旁边的指标条已经替它着了色。卡片上的标签写全名（平均首字 / 平均 TTFT / 平均耗时），悬停提示里再补上它到底量的是什么（TTFB 是首个响应字节，TTFT 是首个非空文本 token）——标签自己占一行，指标条通栏压在下面，所以不必为了给数值让位把名字缩成两个字。
 
 测活结果按成功比例分级：
 
